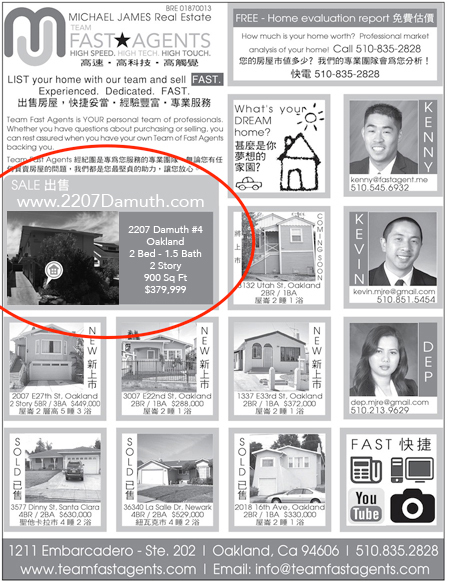
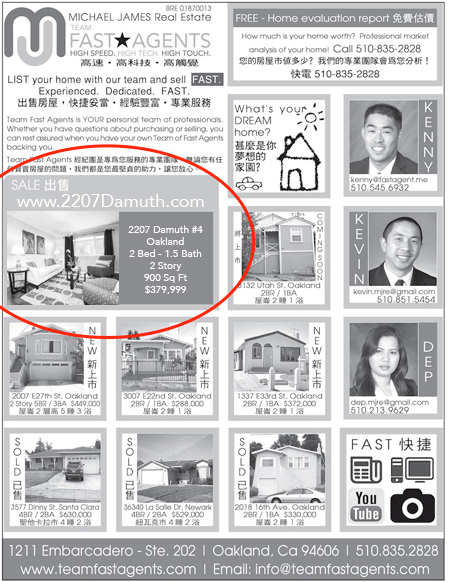
living room pics

Changed region(s): [[0.0, 0.3402, 0.2806, 0.5258]]

diff --git a/index.php b/index.php
@@ -127,7 +127,7 @@
 								</div>
 								<div class="4u">
 									<article class="item">
-										<a href="images/home.jpg" class="image full fancybox"><img src="images/cam2.jpg" alt="" /></a>
+										<a href="images/home2.jpg" class="image full fancybox"><img src="images/cam2.jpg" alt="" /></a>
 										<header>
 											<h3>Professional Photography</h3>
 										</header>
